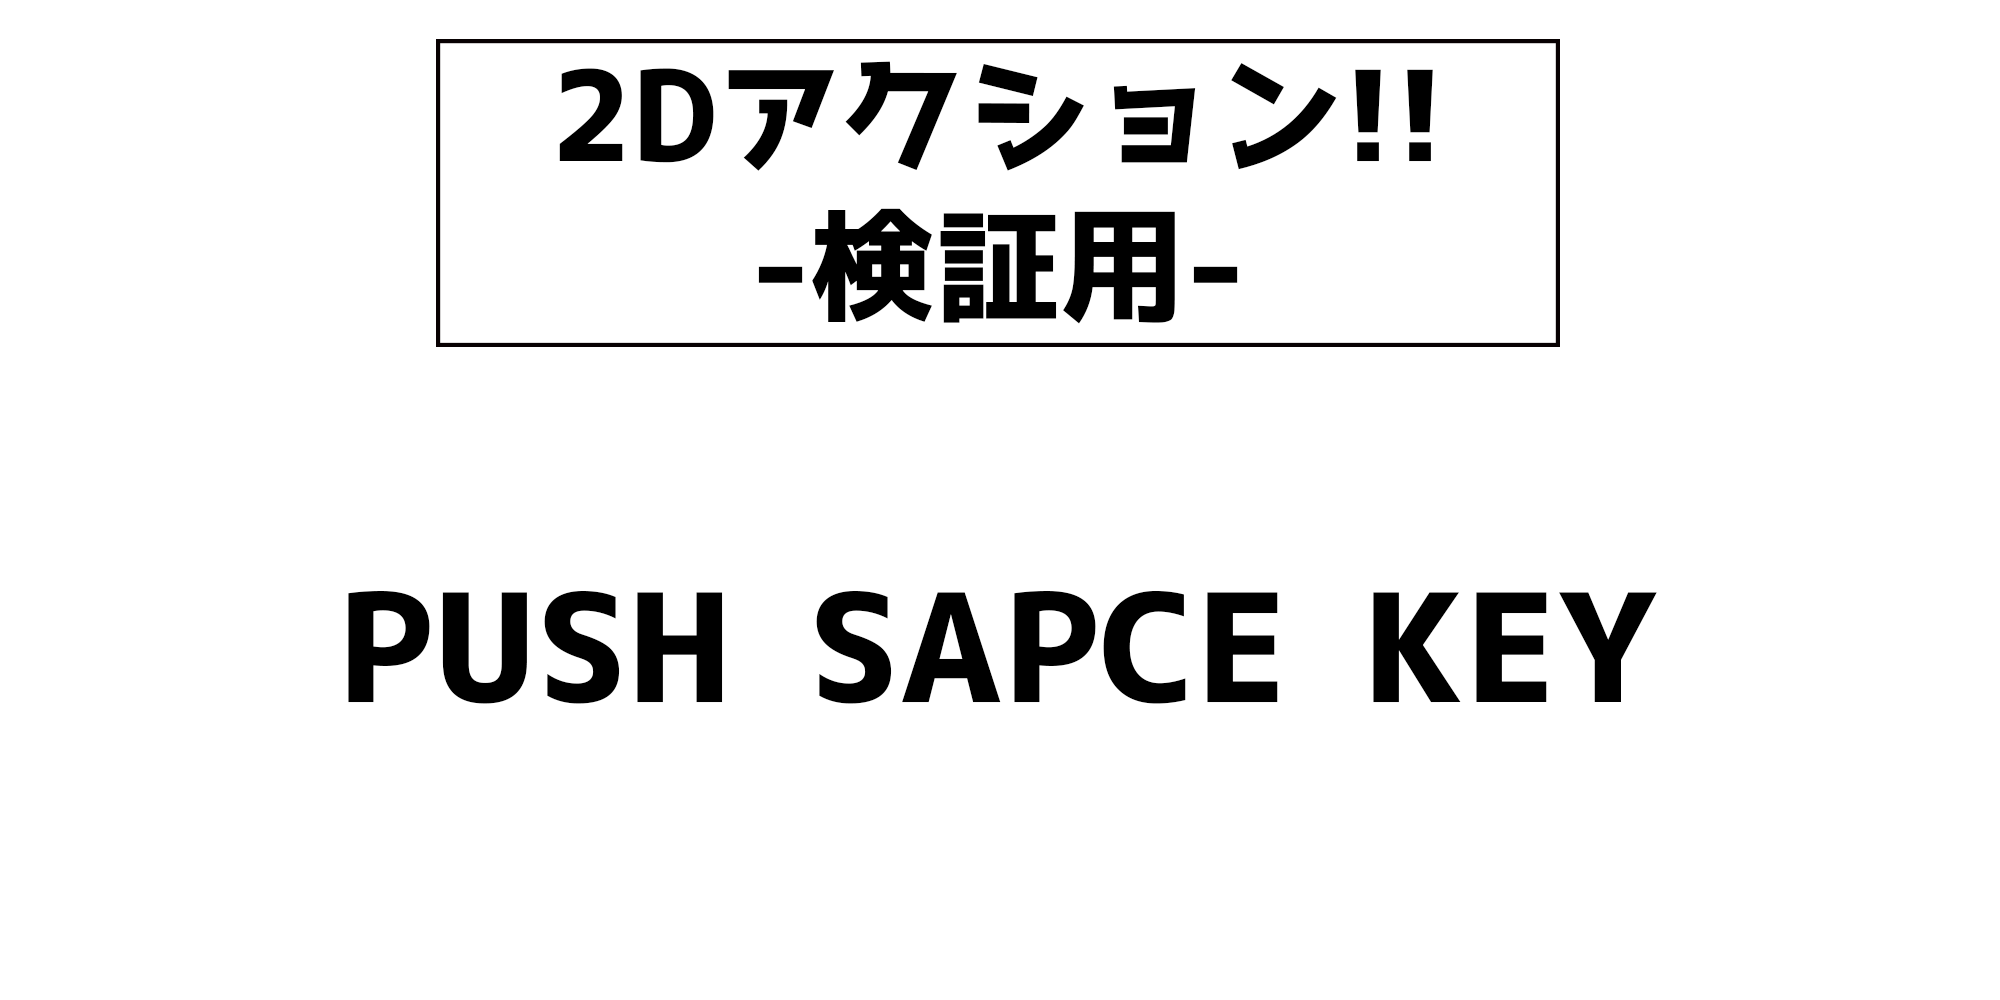
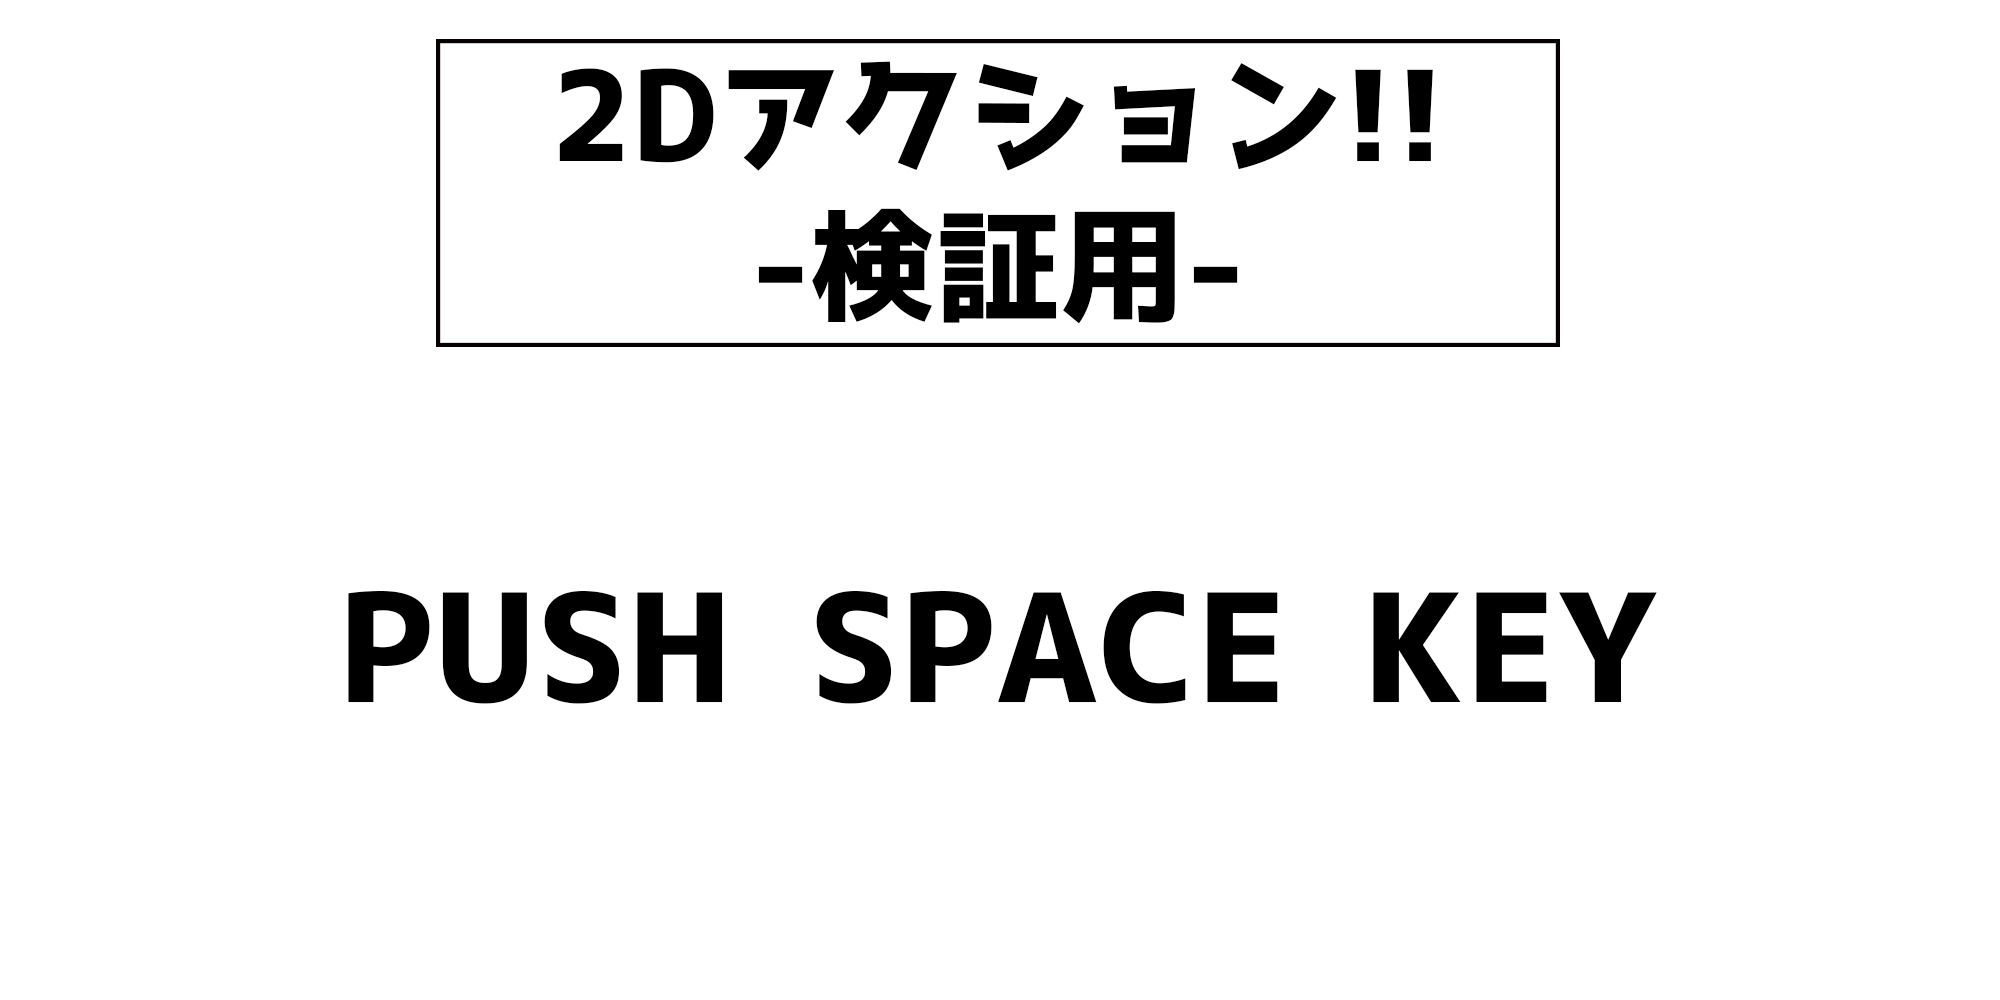
アンケ画面の画像を修正。レベルデザインを修正。暫定完成版。

Changed region(s): [[0.434, 0.589, 0.558, 0.713]]

diff --git a/Assets/Script/GameScenes/EndKeyController_2.cs b/Assets/Script/GameScenes/EndKeyController_2.cs
@@ -5,7 +5,6 @@ using UnityEngine.SceneManagement;
 
 public class EndKeyController_2 : MonoBehaviour 
 {
-
     GameObject endSceneDirector; //ゲームオブジェク「EndSceneDirector」を収納
     GameObject dataSender; //ゲームオブジェクト「DataSender」を収納
 
@@ -13,11 +12,14 @@ public class EndKeyController_2 : MonoBehaviour
     public int KeyPos = 0; //０…もう１度プレイ、１…タイトルに戻る(KeyPosの数値 … キーが指してるステージ番号)
 
     //十字キーの入力検出
-    float JoyconHor;
+    float JoyconHor = 0;
 
     //左右それぞれが検出されたかを判断する
     public bool GetDownLeft = false;
     public bool GetDownRight = false;
+
+    //リザルトに入った時に、十字キーの誤爆を防ぐ
+    int KeyStoper = 0;
 
     void Start () 
     {
@@ -27,22 +29,49 @@ public class EndKeyController_2 : MonoBehaviour
 
         //データを送信する指示を通達する
         this.dataSender.GetComponent<NBETester>().SendChecker = 1;
+
+        //水平方向の入力確認。-１…左移動、1…右移動
+        if (Input.GetKey(KeyCode.LeftArrow))
+        {
+            this.KeyStoper = -1;
+        }
+        else if (Input.GetKey(KeyCode.RightArrow))
+        {
+            this.KeyStoper = 1;
+        }
     }
 
 	void Update () 
     {
-        //水平方向の入力確認。-１…左移動、1…右移動
-        if (Input.GetKey(KeyCode.LeftArrow)) 
-        { 
-            this.JoyconHor = -1;
-        }
-        else if (Input.GetKey(KeyCode.RightArrow))
+        if (KeyStoper == 0)
         {
-            this.JoyconHor = 1;
+            //水平方向の入力確認。-１…左移動、1…右移動
+            if (Input.GetKey(KeyCode.LeftArrow))
+            {
+                this.JoyconHor = -1;
+            }
+            else if (Input.GetKey(KeyCode.RightArrow))
+            {
+                this.JoyconHor = 1;
+            }
+            else
+            {
+                this.JoyconHor = 0;
+            }
         }
-        else 
+        else if(KeyStoper == -1)
         {
-            this.JoyconHor = 0;
+            if (Input.GetKeyUp(KeyCode.LeftArrow))
+            {
+                this.KeyStoper = 0;
+            }
+        }
+        else if (KeyStoper == 1)
+        {
+            if (Input.GetKeyUp(KeyCode.RightArrow))
+            {
+                this.KeyStoper = 0;
+            }
         }
 
         //スティックを左に倒した時

diff --git a/Assets/Script/GameScenes/LevelSetter.cs b/Assets/Script/GameScenes/LevelSetter.cs
@@ -35,7 +35,7 @@ public class LevelSetter : MonoBehaviour
         }
         if (GetStageNumber == 4)
         {
-            Goal.transform.position = new Vector3(26.63f, -6.0f, 0);
+            Goal.transform.position = new Vector3(26.60407352448f, -6.0f, 0);
         }
     }
 
